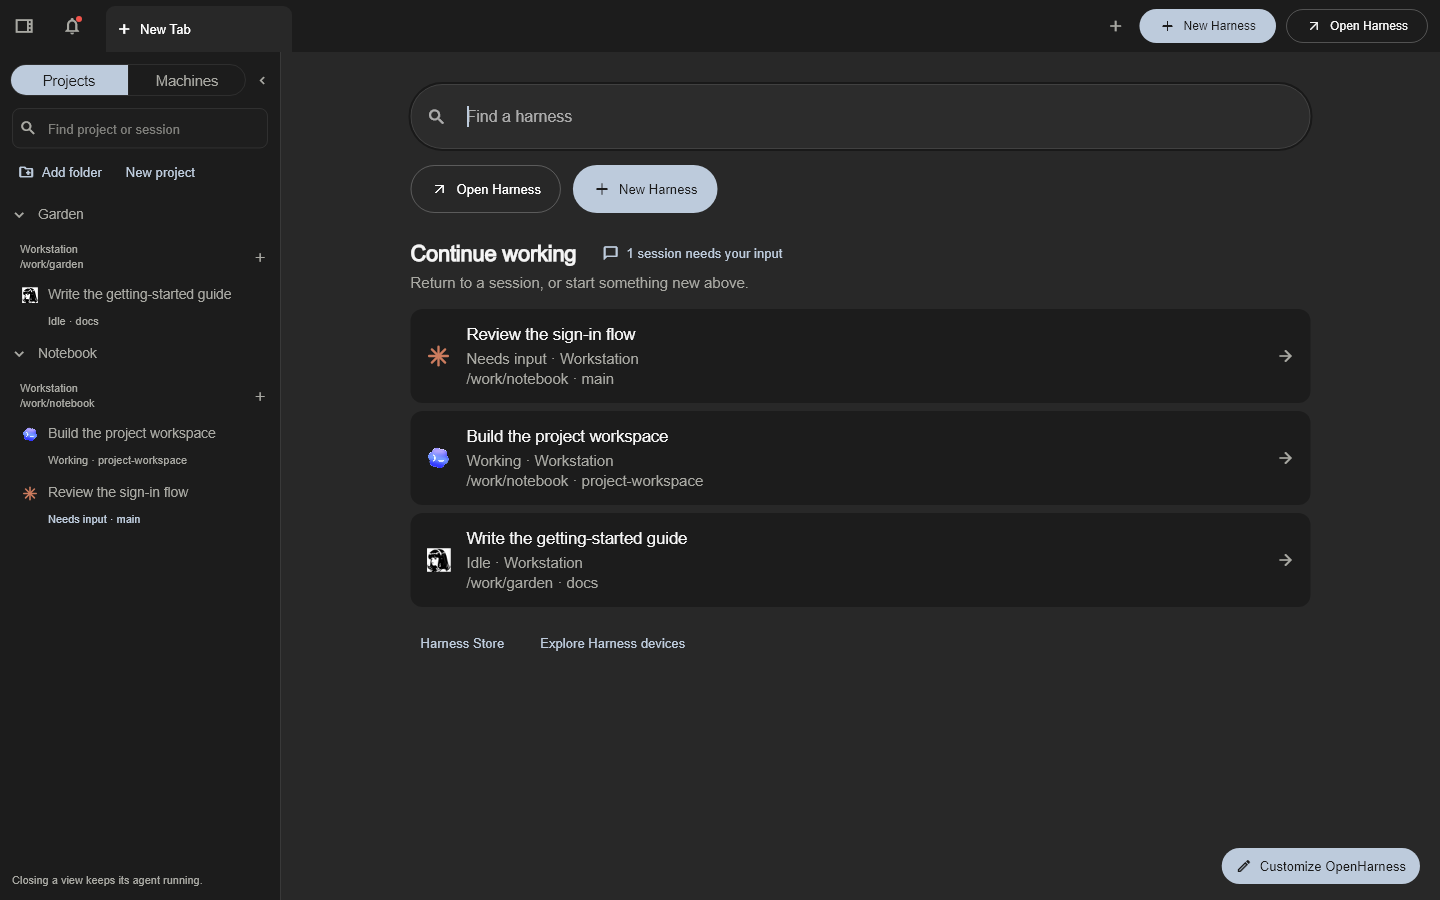
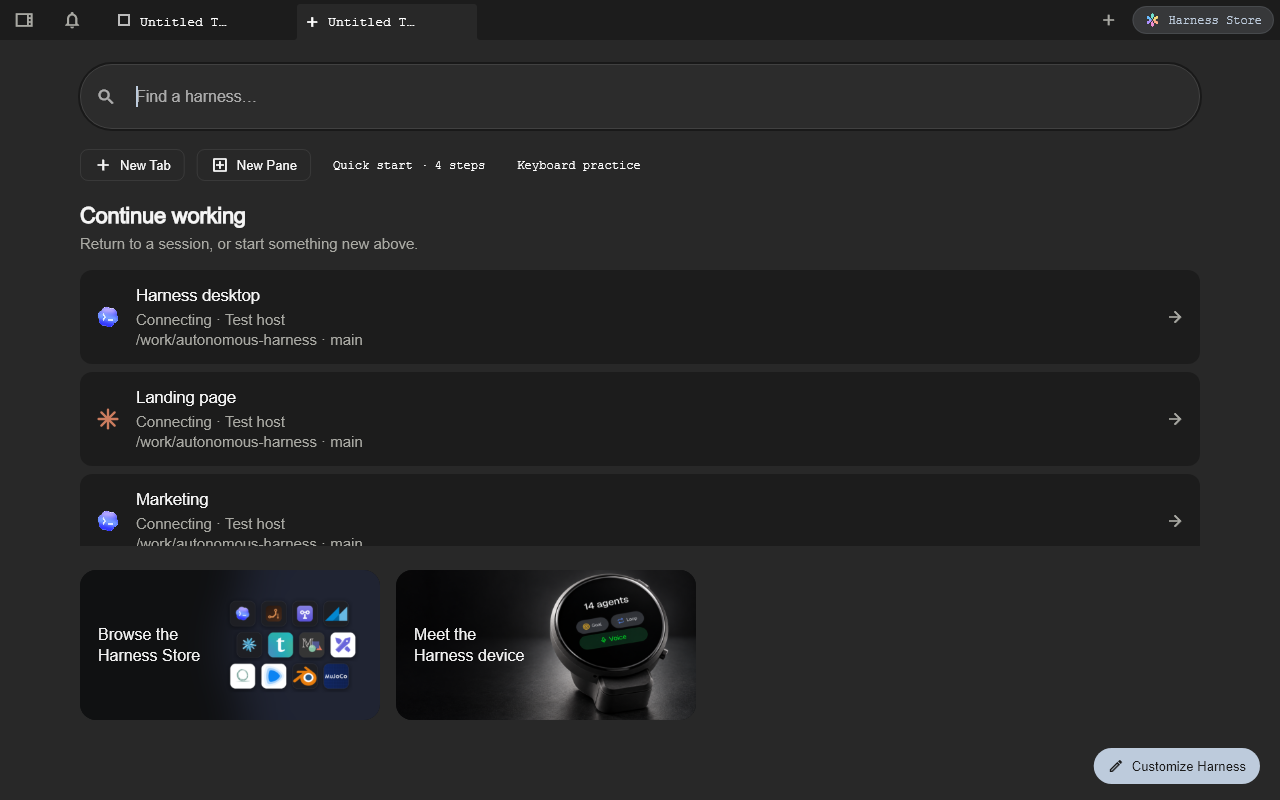
claude: New Harness box reads WSL folders through the daemon; give Continue working room
The New Harness box asked isLocalMachine before it read the GUI host's disk. On Windows this computer's CLI runs in WSL, so its home and folder completion came from the wrong filesystem. The five file-access checks now ask machineSharesGuiFilesystem, which the fork already uses for the folder picker. A Windows-only test covers it and fails without the change.

With sessions to show, the start page now drops the empty-page top margin and uses the compact footer cards, so three Continue working rows fit at 1280x800 where one did. docs/images/workspace-resume.png is re-rendered from the layout test's capture mode with its fictional sessions.

diff --git a/desktop/lib/state/new_harness.dart b/desktop/lib/state/new_harness.dart
@@ -540,8 +540,11 @@ class NewHarnessController extends ChangeNotifier {
     return '${_machineLabel(id)}:${tildePath(path, id)}';
   }
 
-  String? _homeOf(String id) =>
-      app.stateOf(id)?.isLocalMachine == true ? _home : _homes[id];
+  /// Whether [id]'s folders are this app's own disk. A local machine that runs
+  /// in WSL is not: its folders are asked of the daemon, like a remote one's.
+  bool _readsOwnDisk(String id) => app.machineSharesGuiFilesystem(id);
+
+  String? _homeOf(String id) => _readsOwnDisk(id) ? _home : _homes[id];
 
   String tildePath(String path, [String? machineId]) {
     final home = _homeOf(machineId ?? _machineId);
@@ -1022,7 +1025,7 @@ class NewHarnessController extends ChangeNotifier {
       if (home == null) return;
       final root = p.join(home, 'harnesses');
       final List<String> names;
-      if (app.stateOf(id)?.isLocalMachine == true) {
+      if (_readsOwnDisk(id)) {
         names = await Isolate.run(
           () =>
               Directory(root)
@@ -1856,7 +1859,7 @@ class NewHarnessController extends ChangeNotifier {
   /// ~ always means the home of the selected machine's account. The browser
   /// protocol resolves an omitted path to that home; no local path is guessed.
   Future<String?> _ensureHome(String id) {
-    if (app.stateOf(id)?.isLocalMachine == true) return Future.value(_home);
+    if (_readsOwnDisk(id)) return Future.value(_home);
     return _homeRequests.putIfAbsent(id, () async {
       try {
         final answer = await app.listRemoteFolder(id, null);
@@ -1880,7 +1883,7 @@ class NewHarnessController extends ChangeNotifier {
     if (_listing == folder) return;
     _listing = folder;
     _listDebounce?.cancel();
-    if (_machine?.isLocalMachine == true) {
+    if (_readsOwnDisk(_machineId)) {
       unawaited(_list(folder));
     } else {
       _listDebounce = Timer(
@@ -1895,7 +1898,7 @@ class NewHarnessController extends ChangeNotifier {
     final revision = _machineRevision;
     var names = <String>[];
     try {
-      if (_machine?.isLocalMachine == true) {
+      if (_readsOwnDisk(machineId)) {
         // Five thousand entries streamed through the UI isolate's event loop
         // is five thousand events between two frames; read them elsewhere.
         names = await Isolate.run(() {

diff --git a/desktop/lib/widgets/harness_start_page.dart b/desktop/lib/widgets/harness_start_page.dart
@@ -440,7 +440,7 @@ class _HarnessStartPageState extends State<HarnessStartPage> {
                       builder: (context, entryConstraints) {
                         // Reserve the footer before laying out search, keeping
                         // both its top edge and the device still as results open.
-                        final top = (constraints.maxHeight * 0.21)
+                        final open = (constraints.maxHeight * 0.21)
                             .clamp(72.0, 220.0)
                             .clamp(
                               0.0,
@@ -449,6 +449,9 @@ class _HarnessStartPageState extends State<HarnessStartPage> {
                                 220.0,
                               ),
                             );
+                        // This fork's resume list needs the height that an
+                        // empty page spends above the search.
+                        final top = widget.resume == null ? open : 24.0;
                         return Padding(
                           padding: EdgeInsets.only(top: top),
                           child: Column(
@@ -536,12 +539,20 @@ class _HarnessStartPageState extends State<HarnessStartPage> {
                     children: [
                       if (widget.onStore != null) ...[
                         Flexible(
-                          child: _store(compact: constraints.maxHeight < 600),
+                          child: _store(
+                            compact:
+                                widget.resume != null ||
+                                constraints.maxHeight < 600,
+                          ),
                         ),
                         const SizedBox(width: 16),
                       ],
                       Flexible(
-                        child: _device(compact: constraints.maxHeight < 600),
+                        child: _device(
+                          compact:
+                              widget.resume != null ||
+                              constraints.maxHeight < 600,
+                        ),
                       ),
                     ],
                   ),

diff --git a/desktop/test/new_harness_project_context_test.dart b/desktop/test/new_harness_project_context_test.dart
@@ -1,6 +1,7 @@
 import 'support/launch_menu.dart';
 
 import 'dart:async';
+import 'dart:io';
 
 import 'package:flutter/material.dart';
 import 'package:flutter/services.dart';
@@ -637,6 +638,43 @@ void main() {
       await tester.pump(const Duration(milliseconds: 200));
       await tester.pumpWidget(const SizedBox());
     },
+  );
+
+  testWidgets(
+    'a local machine in WSL completes folders through its daemon',
+    (tester) async {
+      final connections = <String, _Folders>{};
+      final app = createApp(
+        connectionForTest: (id) =>
+            connections.putIfAbsent(id, () => _Folders(id)),
+      );
+      seedMixedAgents(app);
+      // This computer's own machine, with its CLI inside WSL: the GUI runs on
+      // Windows and cannot list the distribution's folders.
+      app.stateOf('m')!.localOnly = true;
+      app.debugSetLocalCliInWsl(true);
+      final box = NewHarnessController(
+        app,
+        machineId: 'm',
+        engine: 'codex',
+        folder: '/home/m/work/payments',
+        home: '/gui-only-home',
+      );
+      addTearDown(box.dispose);
+      addTearDown(app.dispose);
+      await mount(tester, box);
+      box.focusField(NewHarnessField.project);
+      box.setQuery('~/work/pa');
+      await tester.pump(const Duration(milliseconds: 100));
+      await tester.pump();
+      expect(box.selected!.project!.folder, '/home/m/work/payments');
+      expect(box.complete(), '~/work/payments/');
+      expect(connections['m']!.paths, contains('/home/m/work'));
+      await tester.pump(const Duration(milliseconds: 200));
+      await tester.pumpWidget(const SizedBox());
+    },
+    // Only a Windows GUI has a local machine whose folders are not its own.
+    skip: !Platform.isWindows,
   );
 
   testWidgets(

diff --git a/desktop/WINDOWS_QUICKSTART.md b/desktop/WINDOWS_QUICKSTART.md
@@ -147,8 +147,12 @@ of agent arguments. Two fork changes gave way to upstream's own versions: the
 compact pane-header menu and its header width rules. Continue working now sits
 inside upstream's start page instead of replacing it. The desktop updater stays
 off on Windows, local mode does not request the account desk, and the New Harness
-box treats agent folders as POSIX paths on a Windows host. This source change
-does not update an installed Preview 7 bundle.
+box treats agent folders as POSIX paths on a Windows host. When this computer's
+CLI runs in WSL, that box now completes folders and finds the home folder through
+the daemon, as it does for a remote machine; it no longer reads the Windows disk.
+With sessions to show, the start page gives Continue working the height that an
+empty page leaves above the search. This source change does not update an
+installed Preview 7 bundle.
 
 Close the old Harness window. If a previous Harness daemon is running, stop that
 daemon from its WSL distribution (`harness stop`) before opening the new preview.
